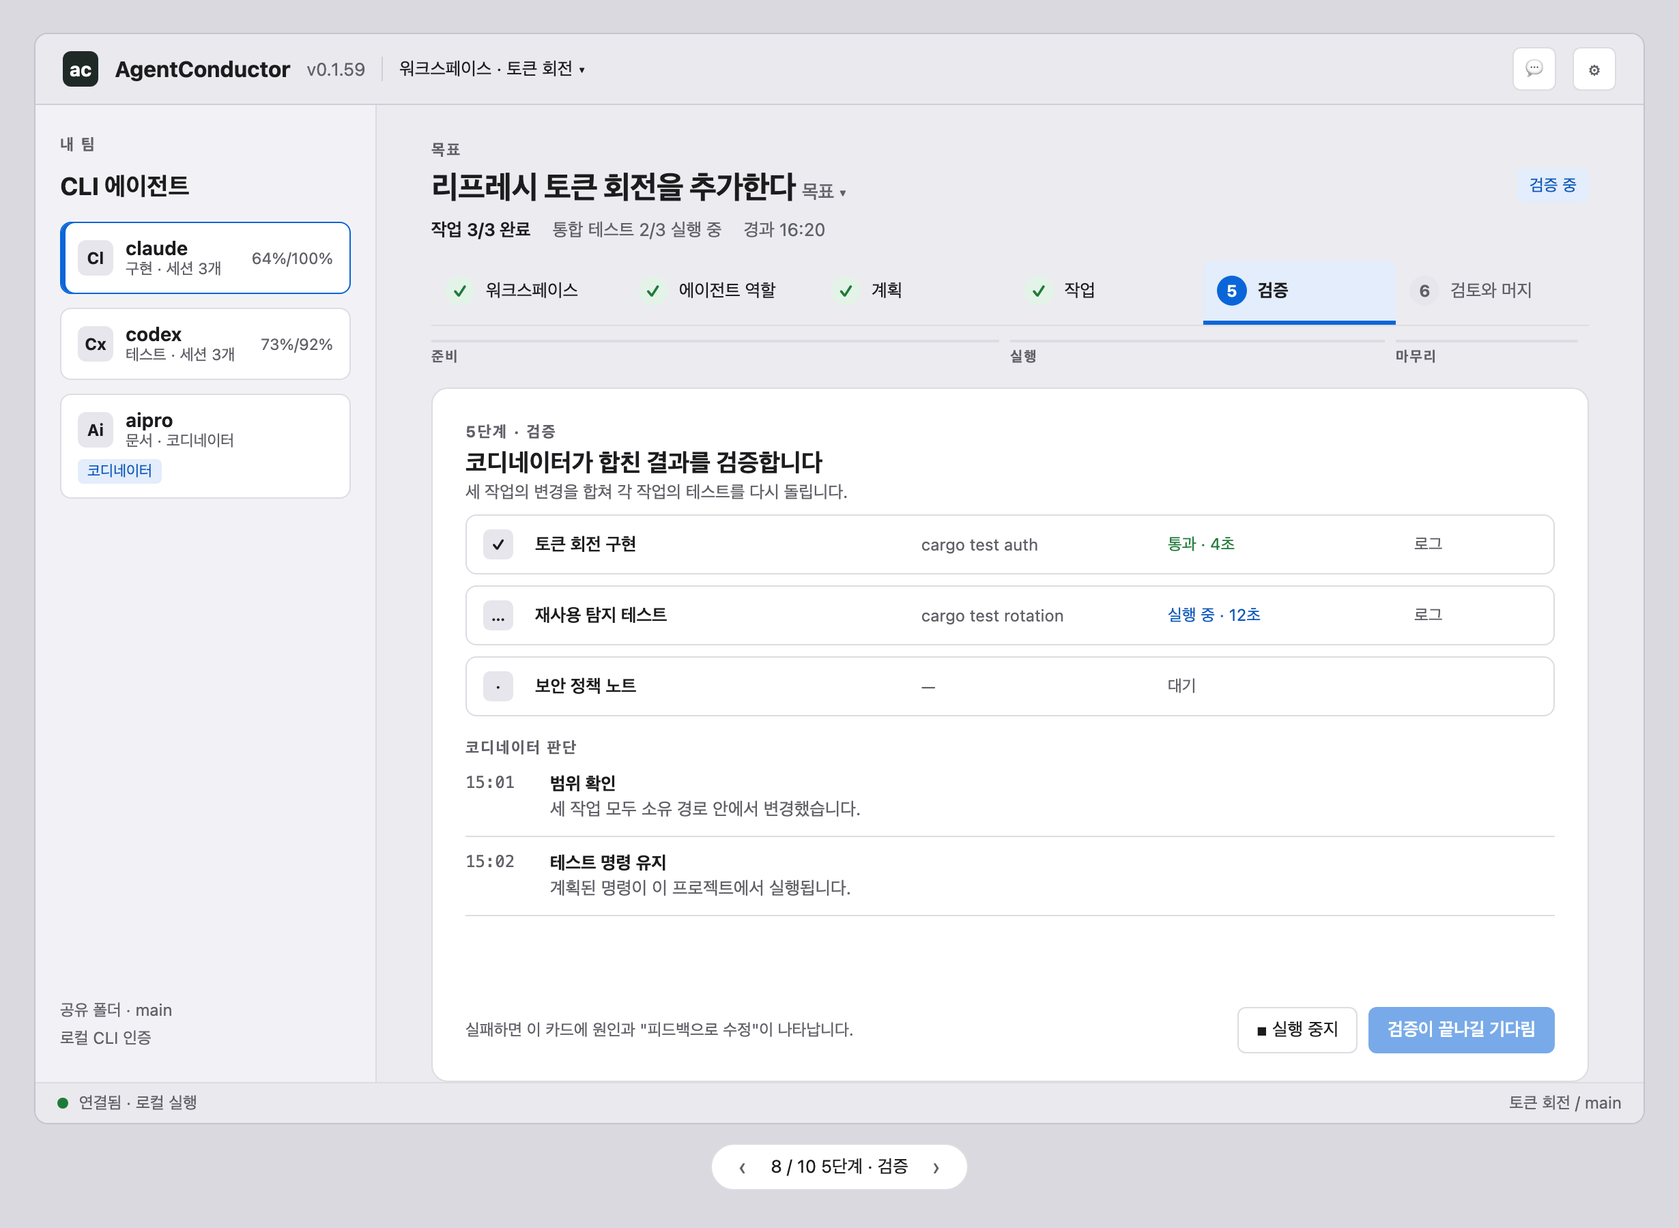
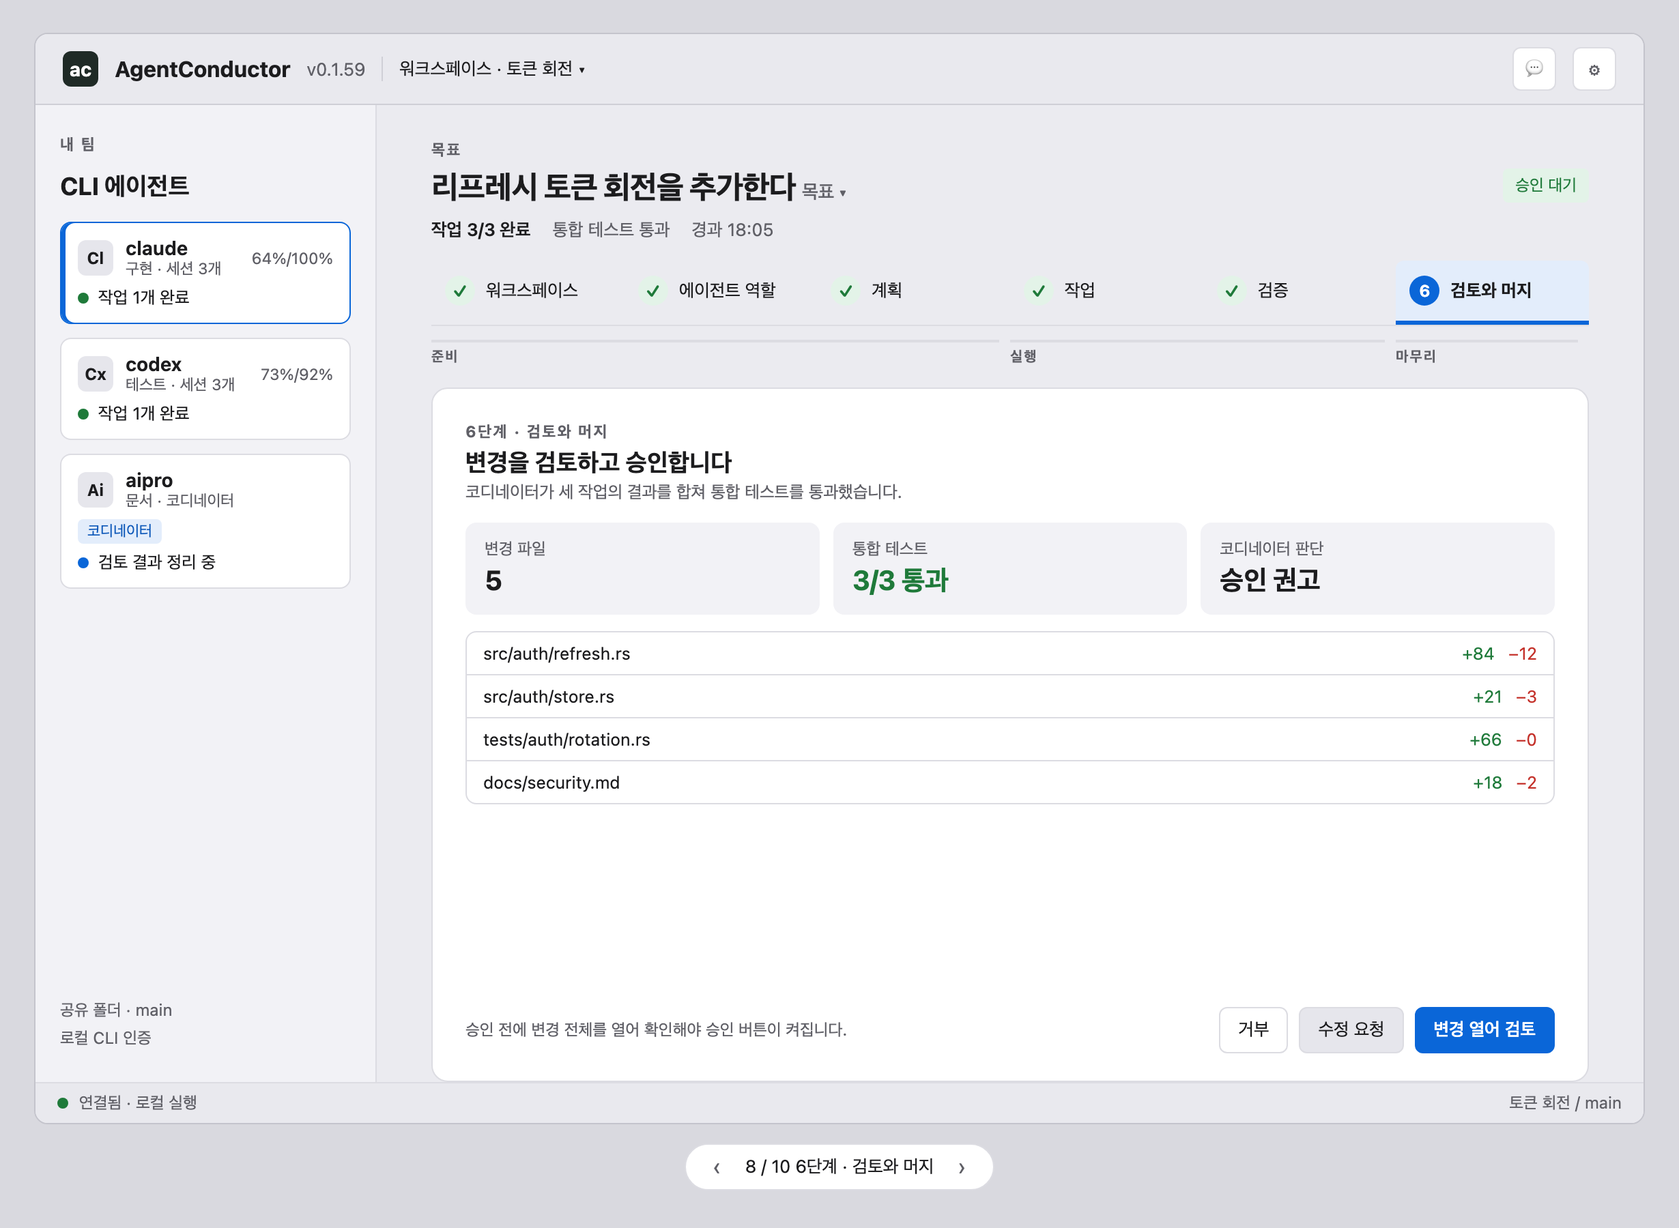
docs: goal is set in step 1, roles follow the goal (#387)

diff --git a/docs/design/unified-goal-screen.html b/docs/design/unified-goal-screen.html
@@ -65,17 +65,17 @@
 <main class="main">
 <span class="eyebrow">목표</span>
 <div class="head"><h1 data-show="a b c d f g h">리프레시 토큰 회전을 추가한다 <span style="font-size:14px;color:var(--soft);font-weight:500">목표 ▾</span></h1><h1 data-show="i j">리프레시 토큰 회전을 추가한다</h1><h1 data-show="e" style="color:var(--soft)">새 목표 <span style="font-size:14px;font-weight:500">· 이전 목표 1개 완료 ▾</span></h1>
-<span class="pill" data-show="a">계획 검토 중</span><span class="pill run" data-show="b">실행 중</span><span class="pill ok" data-show="c">승인 대기</span><span class="pill ok" data-show="d">완료</span><span class="pill" data-show="e">목표 입력</span><span class="pill run" data-show="f">검증 중</span><span class="pill" style="background:var(--warn-bg);color:var(--warn)" data-show="g">결정 필요</span><span class="pill" style="background:#fdecea;color:#c4312a" data-show="h">막힘</span><span class="pill" data-show="i j">설정 중</span></div>
+<span class="pill" data-show="a">계획 검토 중</span><span class="pill run" data-show="b">실행 중</span><span class="pill ok" data-show="c">승인 대기</span><span class="pill ok" data-show="d">완료</span><span class="pill" data-show="e">새 목표</span><span class="pill run" data-show="f">검증 중</span><span class="pill" style="background:var(--warn-bg);color:var(--warn)" data-show="g">결정 필요</span><span class="pill" style="background:#fdecea;color:#c4312a" data-show="h">막힘</span><span class="pill" data-show="i j">준비 중</span></div>
 <div class="runmeta" data-show="a"><span>작업 3개 · 단계 1개</span><span>코디네이터 aipro</span></div>
 <div class="runmeta" data-show="b"><span><span class="dot d-run" style="display:inline-block"></span> <b>작업 1/3 완료</b></span><span>경과 06:42</span><span style="margin-left:auto">팀 브리핑</span></div>
 <div class="runmeta" data-show="d"><span><b>머지 완료</b></span><span>변경 5개 파일</span><span>총 21:40</span></div>
-<div class="runmeta" data-show="e"><span>워크스페이스와 역할은 이어받았습니다</span></div>
+<div class="runmeta" data-show="e"><span>새 목표는 1단계부터 다시 거칩니다</span></div>
 <div class="runmeta" data-show="f"><span><b>작업 3/3 완료</b></span><span>통합 테스트 2/3 실행 중</span><span>경과 16:20</span></div><div class="runmeta" data-show="g h"><span><b>작업 1/3 완료</b></span><span>경과 07:10</span></div><div class="runmeta" data-show="j"><span>프로젝트 폴더와 코디네이터를 정합니다</span></div><div class="runmeta" data-show="i"><span>코디네이터와 역할을 정합니다</span></div>
 <div class="runmeta" data-show="c"><span><b>작업 3/3 완료</b></span><span>통합 테스트 통과</span><span>경과 18:05</span></div>
 <div class="tabs">
-<div class="tab" data-cls="a:done b:done c:done d:done e:done f:done g:done h:done i:done j:cur"><span class="num" data-num="1">1</span>워크스페이스</div>
-<div class="tab" data-cls="a:done b:done c:done d:done e:done f:done g:done h:done i:cur"><span class="num" data-num="2">2</span>에이전트 역할</div>
-<div class="tab" data-cls="a:cur b:done c:done d:done e:cur f:done g:done h:done"><span class="num" data-num="3">3</span>계획</div>
+<div class="tab" data-cls="a:done b:done c:done d:done f:done g:done h:done i:done j:cur e:cur"><span class="num" data-num="1">1</span>워크스페이스</div>
+<div class="tab" data-cls="a:done b:done c:done d:done f:done g:done h:done i:cur"><span class="num" data-num="2">2</span>에이전트 역할</div>
+<div class="tab" data-cls="a:cur b:done c:done d:done f:done g:done h:done"><span class="num" data-num="3">3</span>계획</div>
 <div class="tab" data-cls="b:cur c:done d:done f:done g:cur h:cur"><span class="num" data-num="4">4</span>작업</div>
 <div class="tab" data-cls="c:done d:done f:cur"><span class="num" data-num="5">5</span>검증</div>
 <div class="tab" data-cls="c:cur d:done"><span class="num" data-num="6">6</span>검토와 머지</div>
@@ -114,13 +114,6 @@
 <div class="files"><div>교훈 · 테스트 명령은 cargo test auth로 좁혀야 빠르다</div><div>교훈 · refresh.rs는 store.rs와 함께 바꿔야 한다</div></div>
 <div class="dir"><div class="actions"><span class="note">이 목표는 단계가 하나라 끝났습니다. 여러 단계 목표라면 여기서 "다음 단계 계획"이 주 버튼이 됩니다.</span><button class="btn q">결과 열기</button><button class="btn p">새 목표</button></div></div>
 </section>
-<section class="card" data-show="e">
-<div class="cardhead"><div><span class="eyebrow">3단계 · 계획</span><h2>팀이 무엇을 해야 하나요?</h2><div class="sub">목표를 적으면 코디네이터 aipro가 작업을 나눕니다. 워크스페이스와 역할은 1·2단계에서 바로 고칠 수 있습니다.</div></div></div>
-<span class="eyebrow" style="margin-top:18px">목표</span>
-<div class="ta" style="height:120px;color:var(--ink)">로그인 실패가 5번 넘으면 계정을 15분 잠근다. 잠금 해제 API와 테스트를 추가한다.</div>
-<div style="display:flex;gap:8px"><button class="btn">+ Jira 스토리</button><button class="btn">+ Confluence 문서</button><button class="btn">프롬프트 최적화</button></div>
-<div class="dir"><div class="actions"><span class="note">계획이 만들어지면 이 카드에서 바로 검토합니다.</span><button class="btn q">계획 직접 작성</button><button class="btn p">계획 만들기</button></div></div>
-</section>
 
 <section class="card" data-show="f"><div class="cardhead"><div><span class="eyebrow">5단계 · 검증</span><h2>코디네이터가 합친 결과를 검증합니다</h2><div class="sub">세 작업의 변경을 합쳐 각 작업의 테스트를 다시 돌립니다.</div></div></div>
 <div class="row"><span class="n">✓</span><span class="t">토큰 회전 구현</span><span class="s">cargo test auth</span><span class="s" style="color:var(--ok)">통과 · 4초</span><span class="s">로그</span></div>
@@ -134,24 +127,24 @@
 <section class="card" data-show="h"><div class="cardhead"><div><span class="eyebrow">4단계 · 작업 · 선택한 작업</span><h2>재사용 탐지 테스트</h2><div class="sub">aipro · task-2 · tests/auth/</div></div><span class="pill" style="background:#fdecea;color:#c4312a;margin-top:2px">권한 거부</span></div><div style="margin-top:14px;border-radius:8px;padding:12px 14px;background:#fdecea;color:#c4312a;font-size:13px"><b>CLI가 도구 사용을 거부했습니다</b><div style="margin-top:4px">permission denied: tool bash: Permission denied by non-interactive policy · 이 작업에 의존하는 작업 1개가 기다립니다.</div></div>
 <div class="ttabs"><span class="on">활동</span><span>변경과 테스트</span><span>원본 로그</span><span>교훈</span><span>상세</span></div><div class="ev"><code>14:58</code><div><b>bash 실행 거부</b><span class="m">종료 코드 0이었지만 거부 조건(denial_condition)이 일치했습니다.</span></div></div>
 <div class="dir"><div class="actions"><span class="note">CLI 설정에서 도구를 허용하거나 다른 에이전트에 맡긴 뒤 재개하세요.</span><button class="btn q">다른 에이전트에 맡기기</button><button class="btn p">재개</button></div></div></section>
-<section class="card" data-show="i"><div class="cardhead"><div><span class="eyebrow">2단계 · 에이전트 역할</span><h2>누가 무엇을 할지 정합니다</h2><div class="sub">코디네이터가 이 규칙에 맞게 작업마다 역할과 에이전트를 배정합니다.</div></div></div>
+<section class="card" data-show="i"><div class="cardhead"><div><span class="eyebrow">2단계 · 에이전트 역할</span><h2>누가 무엇을 할지 정합니다</h2><div class="sub">1단계의 목표를 보고 필요한 역할을 정합니다. 코디네이터는 이 규칙에 맞게 작업마다 에이전트를 배정합니다.</div></div></div>
 <div class="row" style="grid-template-columns:1.2fr 1.4fr 1fr 90px"><span class="t">계획과 검증</span><span class="s">aipro · 코디네이터</span><span class="s">CLI 기본 모델</span><span class="s">편집</span></div>
 <div class="row" style="grid-template-columns:1.2fr 1.4fr 1fr 90px"><span class="t">개발</span><span class="s">claude</span><span class="s">sonnet</span><span class="s">편집</span></div>
 <div class="row" style="grid-template-columns:1.2fr 1.4fr 1fr 90px"><span class="t">테스트</span><span class="s">codex</span><span class="s">CLI 기본 모델</span><span class="s">편집</span></div>
 <div class="row" style="grid-template-columns:1.2fr 1.4fr 1fr 90px"><span class="t">문서</span><span class="s">aipro</span><span class="s">—</span><span class="s">편집</span></div>
-<div class="dir"><div class="actions"><span class="note">역할은 작업공간에 저장되어 다음 목표에도 쓰입니다.</span><button class="btn q">+ 역할 추가</button><button class="btn p">저장하고 3단계로</button></div></div></section>
-<section class="card" data-show="j"><div class="cardhead"><div><span class="eyebrow">1단계 · 워크스페이스</span><h2>워크스페이스 설정</h2><div class="sub">이름, 프로젝트 폴더, 계획 코디네이터를 저장합니다. 목표는 3단계에서 적습니다.</div></div></div>
+<div class="dir"><div class="actions"><span class="note">역할은 이 목표에 저장되고, 새 목표에서는 이전 역할을 출발점으로 다시 정합니다.</span><button class="btn q">+ 역할 추가</button><button class="btn p">저장하고 3단계로</button></div></div></section>
+<section class="card" data-show="j e"><div class="cardhead"><div><span class="eyebrow">1단계 · 워크스페이스</span><h2>워크스페이스와 목표</h2><div class="sub">프로젝트 폴더와 코디네이터, 그리고 팀이 할 목표를 정합니다. 2단계에서 이 목표에 맞게 역할을 정합니다.</div></div></div>
 <div style="display:grid;grid-template-columns:1fr 1fr;gap:14px;margin-top:16px;font-size:13px">
 <div><span class="eyebrow">워크스페이스 이름</span><div class="ta" style="height:38px;color:var(--ink)">토큰 회전</div></div>
 <div><span class="eyebrow">계획 코디네이터</span><div class="ta" style="height:38px;color:var(--ink)">aipro · CLI 기본 모델 ▾</div></div>
-<div style="grid-column:1/-1"><span class="eyebrow">프로젝트 폴더</span><div style="display:flex;gap:8px"><div class="ta" style="height:38px;color:var(--ink);flex:1">/Users/neodamul/Development/auth-service</div><button class="btn" style="height:38px;margin-top:6px">찾아보기…</button></div><label style="font-size:12.5px;color:var(--soft)"><input type="checkbox"> 작업을 Git worktree로 격리</label></div></div>
-<div class="dir"><div class="actions"><span class="note">작업공간 설정은 모든 목표가 함께 씁니다.</span><button class="btn q">변경 취소</button><button class="btn p">저장하고 2단계로</button></div></div></section>
+<div style="grid-column:1/-1"><span class="eyebrow">프로젝트 폴더</span><div style="display:flex;gap:8px"><div class="ta" style="height:38px;color:var(--ink);flex:1">/Users/neodamul/Development/auth-service</div><button class="btn" style="height:38px;margin-top:6px">찾아보기…</button></div><label style="font-size:12.5px;color:var(--soft)"><input type="checkbox"> 작업을 Git worktree로 격리</label></div><div style="grid-column:1/-1"><span class="eyebrow">목표</span><div class="ta" style="height:84px;color:var(--ink)"><span data-show="j">리프레시 토큰을 쓸 때마다 새로 발급하고, 재사용된 토큰을 탐지하면 세션을 끊는다.</span><span data-show="e">로그인 실패가 5번 넘으면 계정을 15분 잠근다. 잠금 해제 API와 테스트를 추가한다.</span></div><div style="display:flex;gap:8px"><button class="btn">+ Jira 스토리</button><button class="btn">+ Confluence 문서</button><button class="btn">프롬프트 최적화</button></div></div></div>
+<div class="dir"><div class="actions"><span class="note" data-show="j">폴더와 코디네이터는 작업공간에 남아 다음 목표에도 그대로 채워집니다.</span><span class="note" data-show="e">이전 목표의 폴더와 코디네이터가 채워져 있습니다. 목표를 적고 역할로 넘어갑니다.</span><button class="btn q">변경 취소</button><button class="btn p">저장하고 2단계로</button></div></div></section>
 </main></div>
 <div class="status"><span class="dot d-ok"></span>연결됨 · 로컬 실행<span class="sp"></span>토큰 회전 / main</div>
 </div>
 <div class="pager"><button id="prev">‹</button><span id="label"></span><button id="next">›</button></div>
 <script>
-const views=[['j','1단계 · 워크스페이스'],['a','3단계 · 계획 검토'],['b','4단계 · 작업 진행'],['c','6단계 · 검토와 머지'],['d','목표 완료'],['e','새 목표 · 3단계'],['i','2단계 · 에이전트 역할'],['f','5단계 · 검증'],['g','4단계 · 도구 요청 대기'],['h','4단계 · 권한 거부']];let i=Number(location.hash.slice(1))||0;
+const views=[['j','1단계 · 워크스페이스와 목표'],['i','2단계 · 에이전트 역할'],['a','3단계 · 계획 검토'],['b','4단계 · 작업 진행'],['g','4단계 · 도구 요청 대기'],['h','4단계 · 권한 거부'],['f','5단계 · 검증'],['c','6단계 · 검토와 머지'],['d','목표 완료'],['e','새 목표 · 1단계']];let i=Number(location.hash.slice(1))||0;
 function show(){const v=views[i][0];document.querySelectorAll('[data-show]').forEach(e=>e.style.display=e.dataset.show.split(' ').includes(v)?'':'none');
 document.querySelectorAll('[data-cls]').forEach(e=>{e.className='tab';const m=e.dataset.cls.split(' ').map(x=>x.split(':')).find(x=>x[0]===v);if(m)e.classList.add(m[1]);const n=e.querySelector('[data-num]');n.textContent=e.classList.contains('done')?'✓':n.dataset.num;});
 document.querySelectorAll('.agent').forEach(e=>e.classList.toggle('sel',(e.dataset.v||'').split(' ').includes(v)));

diff --git a/docs/design/unified-goal-screen.md b/docs/design/unified-goal-screen.md
@@ -6,18 +6,19 @@ Status: design, approved for handoff 2026-11-03. Owner of the Rust UI port: Code
 The workspace screen (1 Workspace settings · 2 Agent roles · 3 Review the plan) and the Agent Room (Plan · Tasks · Verify · Merge) are two screens that count the same goal twice, use different layouts (two vs three columns), and scatter actions over four places.
 
 ## Design
-- **One screen per goal, one stepper:** 1 Workspace → 2 Agent roles → 3 Plan → 4 Tasks → 5 Verify → 6 Review and merge, grouped as prepare (1–3), run (4–5) and finish (6). Done steps show ✓, the current step is highlighted, and done steps open read-only while a run works. There is no "← Workspace" switch.
+- **Flow:** the goal is set in step 1 together with the workspace; step 2 assigns roles for that goal; step 3 plans from the goal and the roles; steps 4–6 follow. A new goal starts again at step 1 with the folder and coordinator filled in and the previous roles as a starting point.
+- **One screen per goal, one stepper:** 1 Workspace and goal → 2 Agent roles → 3 Plan → 4 Tasks → 5 Verify → 6 Review and merge, grouped as prepare (1–3), run (4–5) and finish (6). Done steps show ✓, the current step is highlighted, and done steps open read-only while a run works. There is no "← Workspace" switch.
 - **One left list:** the CLI agents list stays in every step. Each card shows the agent, its quota and one live line (idle, the task it works on, waiting, done).
 - **One card per step:** each step uses the same card: eyebrow "Step n · name", a title, a one-line explanation, the body, and one action row at the bottom right. Only the next action is primary (Approve and run, Send direction, Open changes to review, New goal).
 - **Step 4:** activity, changes and tests, raw logs, lessons and details (today's task inspector) are tabs of the selected task card. The Activity tab keeps R-120's folded thinking line and R-159's facts.
-- **After step 6:** the card becomes "Goal done" (result, tests, lessons). The primary action is "New goal", or "Plan the next phase" when phases remain (R-56, R-195). A new goal keeps steps 1–2 (workspace-level settings, ✓ and editable) and starts at step 3. Finished goals stay listed under the title (R-55, R-150).
+- **After step 6:** the card becomes "Goal done" (result, tests, lessons). The primary action is "New goal", or "Plan the next phase" when phases remain (R-56, R-195). A new goal starts at step 1 (folder and coordinator kept, a new goal text), then step 2 (roles for that goal) and step 3. Finished goals stay listed under the title (R-55, R-150).
 
 ## Screens
 Rendered from `unified-goal-screen.html` (the app's own color tokens and sizes; arrows switch the states):
 
 | State | Image |
 |---|---|
-| Step 1 · workspace | ![](1-step1-workspace.png) |
+| Step 1 · workspace and goal | ![](1-step1-workspace-goal.png) |
 | Step 2 · agent roles | ![](2-step2-agent-roles.png) |
 | Step 3 · plan review | ![](3-step3-plan-review.png) |
 | Step 4 · tasks | ![](4-step4-tasks.png) |
@@ -26,7 +27,7 @@ Rendered from `unified-goal-screen.html` (the app's own color tokens and sizes; 
 | Step 5 · verify | ![](7-step5-verify.png) |
 | Step 6 · review and merge | ![](8-step6-review-merge.png) |
 | Goal done | ![](9-goal-done.png) |
-| New goal · step 3 | ![](10-new-goal.png) |
+| New goal · step 1 | ![](10-new-goal-step1.png) |
 
 ## Traces it touches
 R-38 (workspace settings), R-45/R-196 (visible progress), R-99/R-111 (next step always shown), R-104 (activity), R-112/R-195 (phases), R-118 (close dialog), R-120/R-159 (activity facts), R-165 (inspector folding is replaced by tabs), R-180 (only useful information). A requirement entry (next free number on `main`, see docs/README.md reserved block) is added when implementation starts.
@@ -43,15 +44,15 @@ The stepper position is derived, never stored. The first matching row wins.
 
 | Condition (startup snapshot / run report) | Step | Card |
 |---|---|---|
-| No project folder or no saved workspace name | 1 | Workspace settings (today's step-1 card) |
-| No coordinator, or a role rule refers to a missing agent (R-101 red assignment) | 2 | Agent roles |
-| No goal, or `job.kind == "plan"` running, or a proposal not yet approved | 3 | Goal entry → planning progress → plan review |
+| No project folder, no saved workspace name, or no goal | 1 | Workspace and goal (folder, coordinator, goal, Jira/Confluence, optimize) |
+| Roles for this goal not confirmed, or a role rule refers to a missing agent (R-101) | 2 | Agent roles for the goal |
+| `job.kind == "plan"` running, or a proposal not yet approved | 3 | Goal entry → planning progress → plan review |
 | Run `state` in `ready`, `running`, `waiting_tool_approval`, `waiting_availability`, `stopped`, `blocked`, or a task `failed`/`permission_denied` before integration | 4 | Tasks |
 | All tasks `completed` and integration verification running or failed | 5 | Verify |
 | `waiting_approval`, `approved`, or merge job running | 6 | Review and merge |
 | `completed` (merged) | — | Goal done |
 
-Steps 1–2 belong to the workspace and keep ✓ across goals. Steps 3–6 belong to the current goal (slug) and its current phase.
+Folder and coordinator belong to the workspace and are pre-filled for every goal; the goal (step 1), its roles (step 2) and steps 3–6 belong to the goal (slug) and its current phase.
 
 ### Layout and reuse
 - **Title bar:** today's (`.titlebar`), without the "← Workspace" button. The run phase label (R-114) moves into the goal meta line.
@@ -61,7 +62,9 @@ Steps 1–2 belong to the workspace and keep ✓ across goals. Steps 3–6 belon
 - **Card:** `.step-card` with `.section-title` (eyebrow `Step n · name`, `h2.step-title`, `p.step-intro`), then the body, then one action row (`.dialog-actions`-like, right aligned, one `.primary`).
 
 ### Per-step body
-- **Step 3:** goal textarea, Jira/Confluence/optimize buttons and planning progress (R-45/R-196). Then the folded task rows (R-116) and phase briefs (R-117). Primary: Generate plan → Approve and run. Secondary: Write plan by hand, Regenerate.
+- **Step 1:** workspace name, coordinator, project folder, worktree option, then the goal textarea with Jira/Confluence/optimize. Primary: Save and go to step 2.
+- **Step 2:** role rows (role, agent, model) for this goal. Primary: Save and go to step 3.
+- **Step 3:** planning progress (R-45/R-196). Then the folded task rows (R-116) and phase briefs (R-117). Primary: Generate plan → Approve and run. Secondary: Write plan by hand, Regenerate.
 - **Step 4:**
   - **Top:** the selected task title, its agent, task id and owned paths.
   - **Tabs:** Activity (R-104, R-120 fold, R-159 facts), Changes and tests, Raw logs, Lessons (R-164), Details (ownership, assignment, model, availability; today's inspector).
